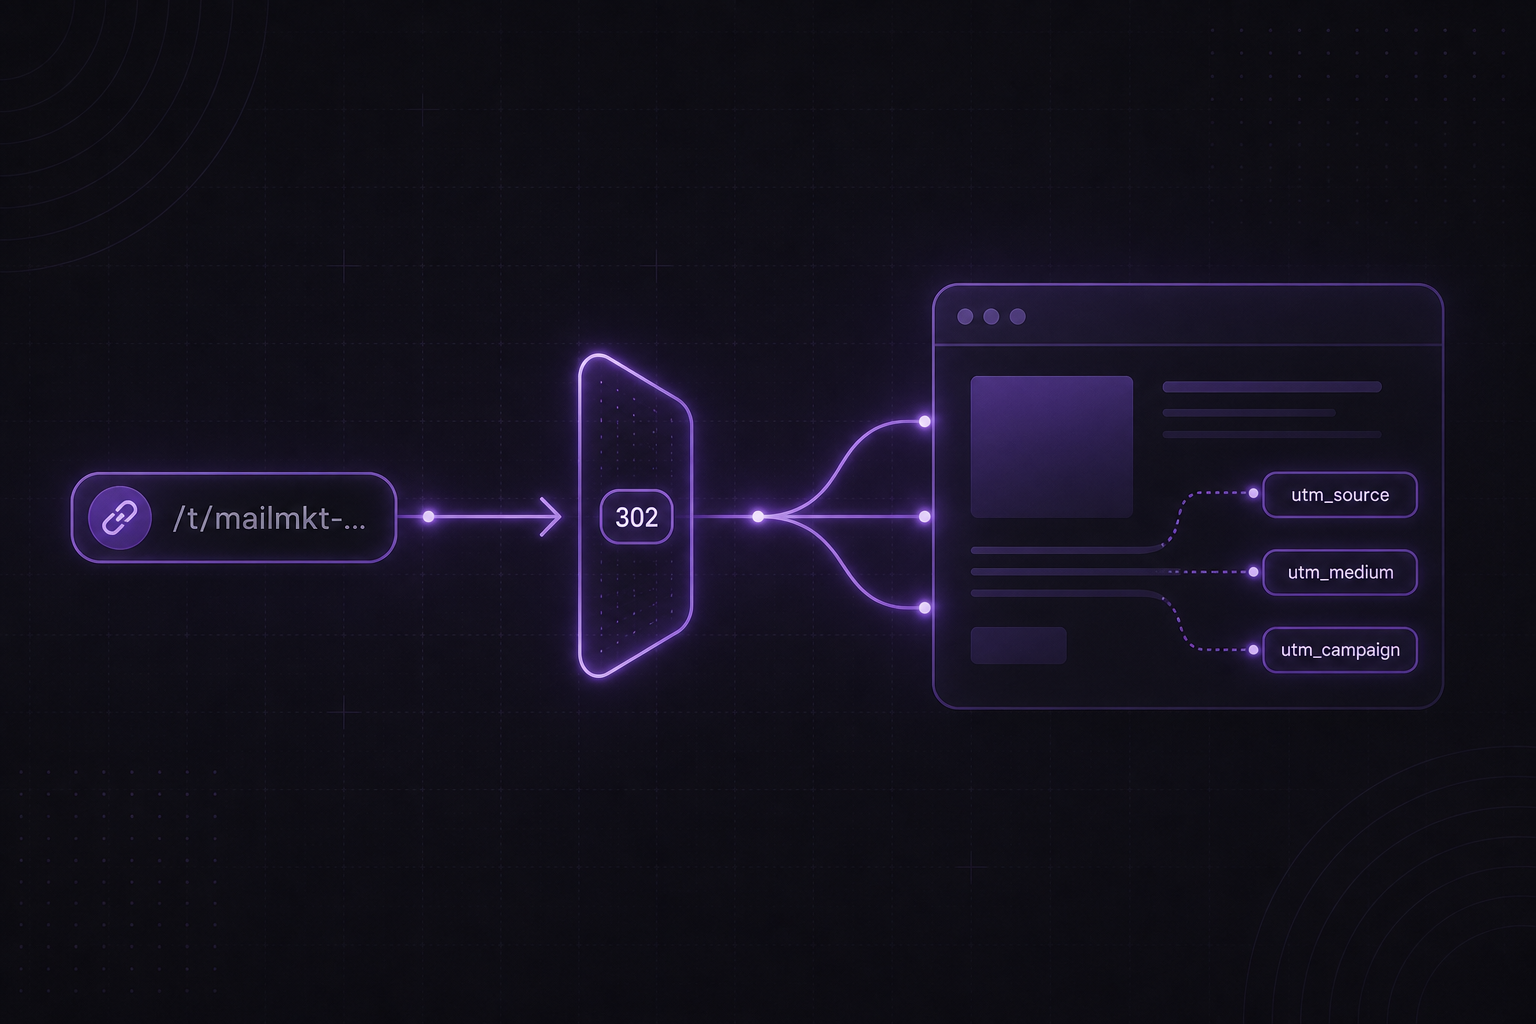
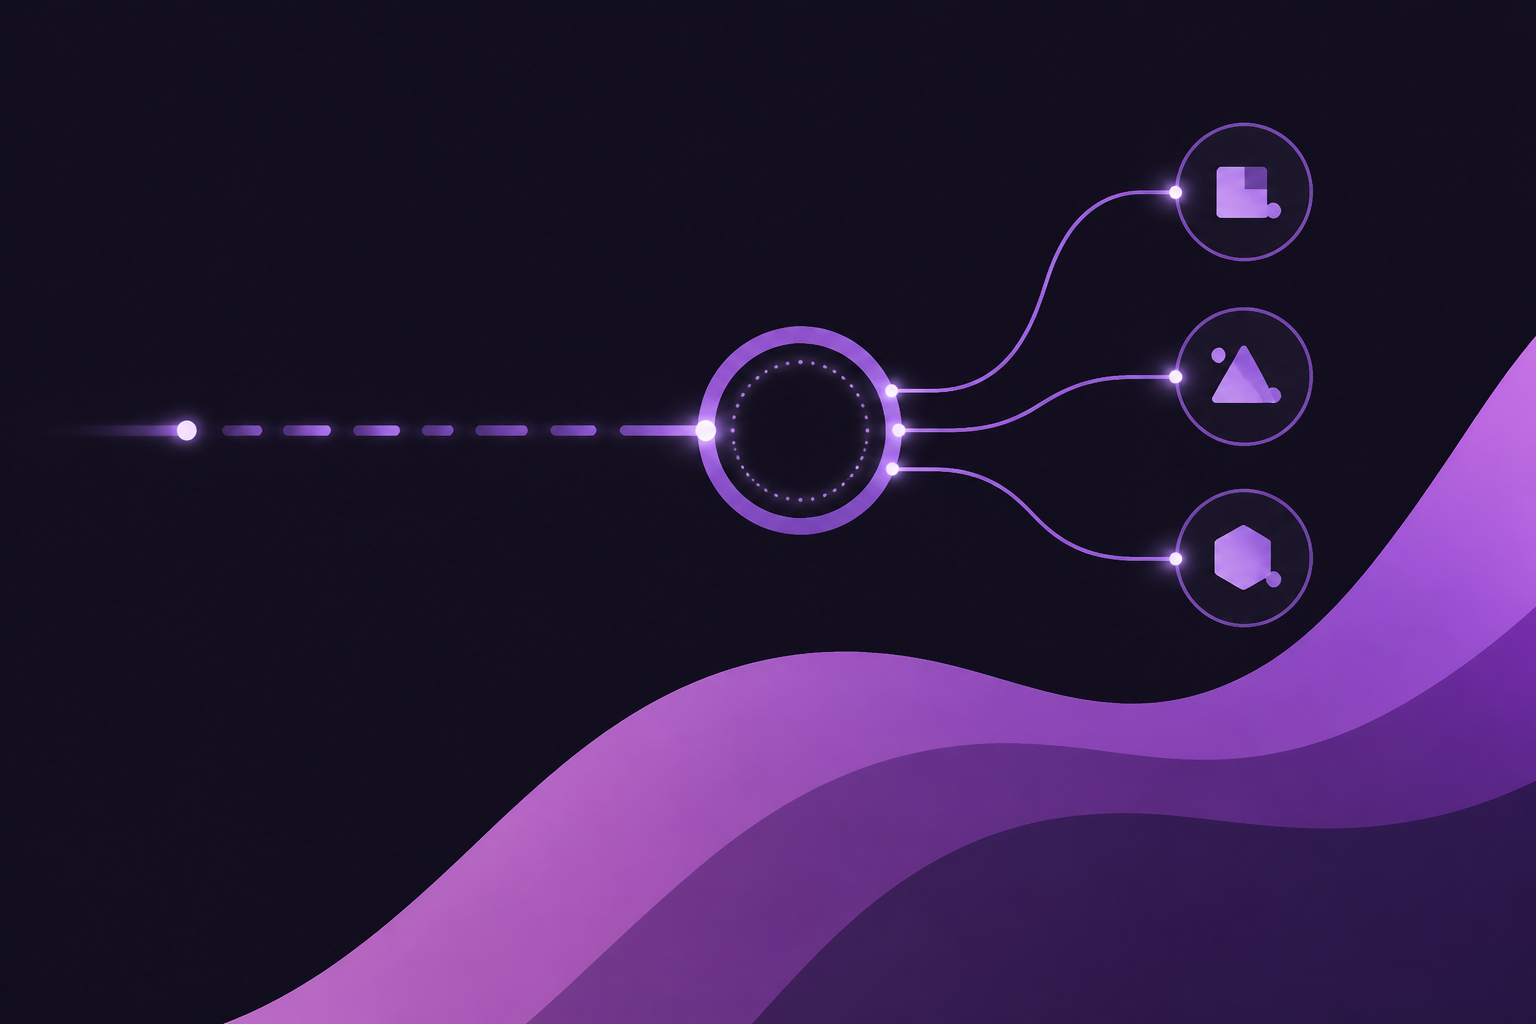
style: CF Gauss visual standard — capas com o motivo das ondas, terminais em ink/lilás, logomarca nos READMEs

diff --git a/README.md b/README.md
@@ -2,6 +2,10 @@
   <img src="assets/cover.png" alt="My_UTMs_Make_Me_Proud — every marketing link, tracked" width="100%">
 </p>
 
+<p align="center">
+  <img src="assets/logo.png" alt="CF Gauss" width="72">
+</p>
+
 <h1 align="center">My_UTMs_Make_Me_Proud</h1>
 
 <p align="center">
